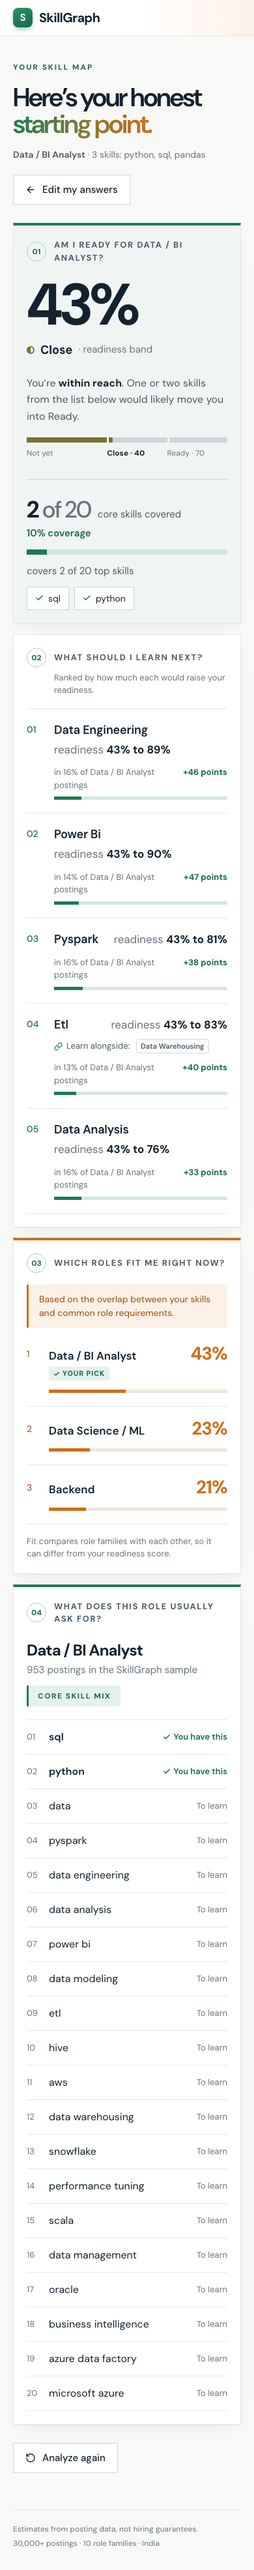
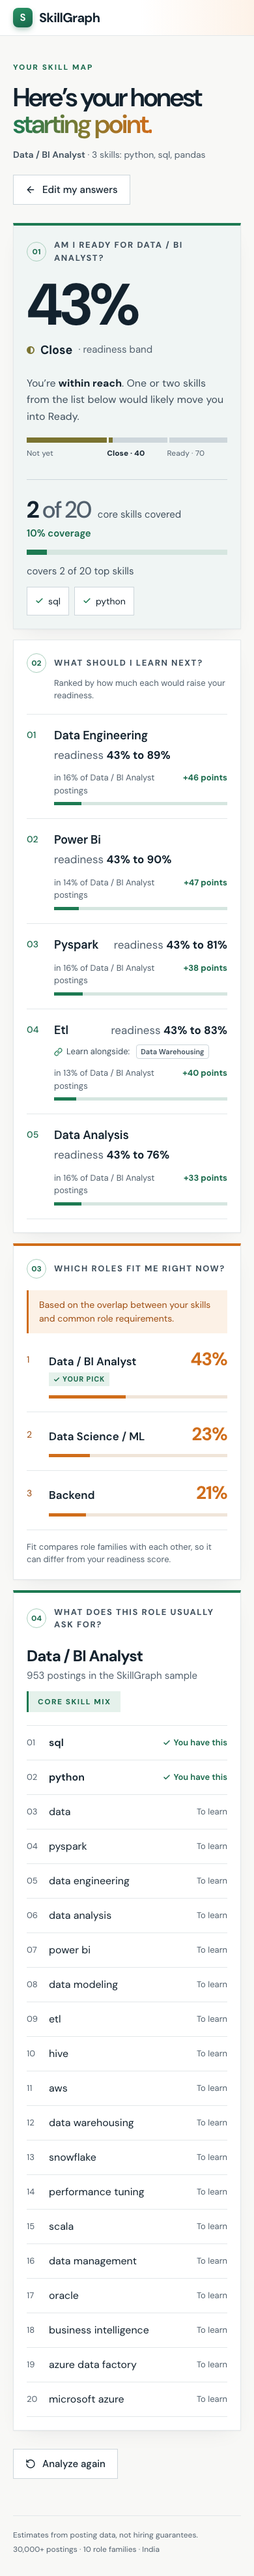
fix(frontend): edge cases, mobile layout and a11y

diff --git a/frontend/src/App.jsx b/frontend/src/App.jsx
@@ -75,6 +75,7 @@ export default function App() {
 
   const abortRef = useRef(null);
   const resultsHeadingRef = useRef(null);
+  const isSubmittingRef = useRef(false);
 
   function loadRoles() {
     setRolesStatus('loading');
@@ -117,12 +118,16 @@ export default function App() {
     return () => clearInterval(id);
   }, [status, lastPayload]);
 
-  // Move focus to the results heading when an answer arrives.
+  // Move focus to the results heading after submit and when results or error change.
   useEffect(() => {
-    if (status === 'success') resultsHeadingRef.current?.focus({ preventScroll: true });
-  }, [status]);
+    if (view === 'results') {
+      resultsHeadingRef.current?.focus({ preventScroll: true });
+    }
+  }, [view, status]);
 
   async function runAnalyze(payload) {
+    if (isSubmittingRef.current) return;
+    isSubmittingRef.current = true;
     abortRef.current?.abort();
     const controller = new AbortController();
     abortRef.current = controller;
@@ -141,6 +146,8 @@ export default function App() {
       if (controller.signal.aborted || isCancelled(err)) return;
       setError(toFriendlyError(err));
       setStatus('error');
+    } finally {
+      isSubmittingRef.current = false;
     }
   }
 
@@ -150,7 +157,7 @@ export default function App() {
 
   function handleSubmit(e) {
     e.preventDefault();
-    if (!canSubmit) return;
+    if (!canSubmit || isSubmittingRef.current || status === 'loading') return;
     runAnalyze({ skills: skillNames, desired_role: desiredRole });
   }
 
@@ -253,7 +260,7 @@ export default function App() {
                 </p>
                 <button
                   type="submit"
-                  disabled={!canSubmit}
+                  disabled={!canSubmit || status === 'loading'}
                   aria-describedby="submit-reason"
                   className="flex min-h-[54px] max-w-[360px] flex-[1_1_260px] items-center justify-between gap-3 bg-accent px-[22px] text-base font-semibold text-white hover:bg-accent-hover disabled:opacity-[.42] disabled:hover:bg-accent"
                 >
@@ -266,7 +273,7 @@ export default function App() {
         )}
 
         {view === 'results' && (
-          <>
+          <div id="results-region" aria-live="polite">
             <section className="flex flex-wrap items-end justify-between gap-x-6 gap-y-5 pb-7 pt-[clamp(40px,9vw,88px)]">
               <div className="min-w-0 flex-[1_1_420px]">
                 <p className={eyebrow}>{status === 'loading' ? 'Building your skill map' : 'Your skill map'}</p>
@@ -275,7 +282,7 @@ export default function App() {
                   tabIndex={-1}
                   className="text-[clamp(40px,9vw,64px)] font-semibold leading-[1.03] tracking-[-0.05em] outline-none"
                 >
-                  {status === 'loading' ? 'Reading the postings' : status === 'error' ? 'Almost there —' : 'Here’s your honest'}
+                  {status === 'loading' ? 'Reading the postings' : status === 'error' ? 'Almost there,' : 'Here’s your honest'}
                   <br />
                   <span className="text-gradient">{status === 'loading' ? 'for you.' : status === 'error' ? 'one more try.' : 'starting point.'}</span>
                 </h1>
@@ -335,8 +342,13 @@ export default function App() {
               <Card tone="error" role="alert" className="mb-14 grid grid-cols-[auto_minmax(0,1fr)] gap-4">
                 <CircleAlert size={24} strokeWidth={2} className="mt-0.5 text-ink-2" aria-hidden="true" />
                 <div className="min-w-0">
-                  <h2 className="mb-2 text-[clamp(20px,4vw,24px)] font-bold tracking-[-0.025em]">{error.title}</h2>
+                  <h2 className="mb-2 text-[clamp(20px,4vw,24px)] font-bold tracking-[-0.025em]">{error.title || 'Something went wrong'}</h2>
                   <p className="mb-1.5 max-w-[58ch] text-[15px] leading-[1.55] text-ink-2 text-pretty">{error.message}</p>
+                  {error.unrecognized?.length > 0 && (
+                    <p className="mb-3 text-sm text-ink-3">
+                      Unrecognized: <strong className="font-semibold text-ink-2">{error.unrecognized.join(', ')}</strong>. Try checking the spelling or picking suggestions from our list.
+                    </p>
+                  )}
                   <p className="mb-5 text-sm text-ink-3">
                     Your {shownSkills.length} skills and {shownRole} are still here.
                   </p>
@@ -394,7 +406,7 @@ export default function App() {
                 </div>
               </>
             )}
-          </>
+          </div>
         )}
 
         <Footer />

diff --git a/frontend/src/components/SkillInput.jsx b/frontend/src/components/SkillInput.jsx
@@ -20,12 +20,14 @@ export default function SkillInput({ value, onChange, inputId = 'skill-search' }
   const [showAll, setShowAll] = useState(false);
   const [retryTick, setRetryTick] = useState(0);
   const [announce, setAnnounce] = useState('');
+  const [limitMessage, setLimitMessage] = useState('');
   const inputRef = useRef(null);
   const listRef = useRef(null);
 
   const listId = `${inputId}-listbox`;
   const hintId = `${inputId}-hint`;
   const errorId = `${inputId}-error`;
+  const limitId = `${inputId}-limit`;
 
   useEffect(() => {
     const q = query.trim();
@@ -86,10 +88,21 @@ export default function SkillInput({ value, onChange, inputId = 'skill-search' }
 
   function pick(opt) {
     if (!opt) return;
-    if (opt.added) {
+    const nameLower = opt.name.trim().toLowerCase();
+    if (opt.added || added.has(nameLower)) {
       setAnnounce(`${opt.name} is already added`);
+      setQuery('');
+      setOpen(false);
       return;
     }
+    if (value.length >= CHIP_LIMIT) {
+      setLimitMessage('You can add up to 30 skills. Remove one before adding more.');
+      setAnnounce('Maximum of 30 skills reached. Remove one before adding more.');
+      setQuery('');
+      setOpen(false);
+      return;
+    }
+    setLimitMessage('');
     onChange([...value, { name: opt.name, known: opt.type === 'skill' }]);
     setAnnounce(`${opt.name} added. ${value.length + 1} skills.`);
     setQuery('');
@@ -101,6 +114,7 @@ export default function SkillInput({ value, onChange, inputId = 'skill-search' }
   function removeAt(index) {
     const removed = value[index];
     onChange(value.filter((_, i) => i !== index));
+    setLimitMessage('');
     setAnnounce(`${removed.name} removed`);
     inputRef.current?.focus();
   }
@@ -120,7 +134,24 @@ export default function SkillInput({ value, onChange, inputId = 'skill-search' }
       case 'Enter':
         if (q) {
           e.preventDefault();
-          if (options.length) pick(options[activeIndex]);
+          if (added.has(ql)) {
+            setAnnounce(`${q} is already added`);
+            setQuery('');
+            setOpen(false);
+            return;
+          }
+          if (value.length >= CHIP_LIMIT) {
+            setLimitMessage('You can add up to 30 skills. Remove one before adding more.');
+            setAnnounce('Maximum of 30 skills reached. Remove one before adding more.');
+            setQuery('');
+            setOpen(false);
+            return;
+          }
+          if (options.length) {
+            pick(options[activeIndex]);
+          } else {
+            pick({ type: 'free', name: q });
+          }
         }
         break;
       case 'Escape':
@@ -157,7 +188,11 @@ export default function SkillInput({ value, onChange, inputId = 'skill-search' }
         <label htmlFor={inputId} className="flex-1 text-[13px] font-bold uppercase tracking-[0.12em] text-ink-2">
           Skills you already have
         </label>
-        {value.length > 0 && <span className="text-[13px] tabular-nums text-ink-3">{value.length} added</span>}
+        {value.length > 0 && (
+          <span className="text-[13px] tabular-nums text-ink-3">
+            {value.length} added{value.length >= CHIP_LIMIT ? ' (maximum)' : ''}
+          </span>
+        )}
       </div>
 
       <div className="relative">
@@ -174,7 +209,9 @@ export default function SkillInput({ value, onChange, inputId = 'skill-search' }
           aria-expanded={listOpen}
           aria-controls={listId}
           aria-activedescendant={listOpen && options.length ? `${listId}-opt-${activeIndex}` : undefined}
-          aria-describedby={searchStatus === 'error' ? `${hintId} ${errorId}` : hintId}
+          aria-describedby={[hintId, limitMessage ? limitId : null, searchStatus === 'error' ? errorId : null]
+            .filter(Boolean)
+            .join(' ')}
           placeholder="Search skills, like React or Python"
           value={query}
           onChange={(e) => {
@@ -229,6 +266,12 @@ export default function SkillInput({ value, onChange, inputId = 'skill-search' }
           </ul>
         )}
       </div>
+
+      {limitMessage && (
+        <p id={limitId} role="alert" className="mt-2.5 text-sm font-semibold text-fit-ink">
+          {limitMessage}
+        </p>
+      )}
 
       <p id={hintId} className="mb-5 mt-2.5 text-[13px] leading-normal text-ink-3">
         Aliases work — “reactjs”, “k8s”, “sklearn”. ↑ ↓ to move, Enter to add, Esc to clear, Backspace removes the last skill.

diff --git a/frontend/src/components/ui/Chip.jsx b/frontend/src/components/ui/Chip.jsx
@@ -3,16 +3,23 @@ import { Check, X } from 'lucide-react';
 /** Removable skill chip used in the input. */
 export default function Chip({ name, unrecognized = false, onRemove }) {
   return (
-    <li className={`flex min-h-11 max-w-full items-stretch border bg-surface ${unrecognized ? 'border-dashed' : 'border-solid'} border-line-2`}>
-      <span className="flex min-w-0 flex-col justify-center py-1.5 pl-3 pr-0.5">
-        <span className="text-sm font-semibold leading-tight [overflow-wrap:anywhere]">{name}</span>
+    <li
+      className={`flex min-h-11 max-w-full items-stretch border bg-surface ${
+        unrecognized ? 'border-dashed' : 'border-solid'
+      } border-line-2`}
+    >
+      <span
+        title={name}
+        className="flex min-w-0 max-w-[200px] sm:max-w-[260px] flex-col justify-center py-1.5 pl-3 pr-0.5"
+      >
+        <span className="truncate text-sm font-semibold leading-tight">{name}</span>
         {unrecognized && <span className="text-[11px] text-ink-3">Not in our list</span>}
       </span>
       <button
         type="button"
         onClick={onRemove}
         aria-label={`Remove ${name}`}
-        className="grid w-10 flex-none place-items-center text-ink-2 hover:bg-tint hover:text-ink"
+        className="grid size-11 flex-none place-items-center text-ink-2 hover:bg-tint hover:text-ink focus-visible:outline-2"
       >
         <X size={15} strokeWidth={2.2} aria-hidden="true" />
       </button>
@@ -23,9 +30,9 @@ export default function Chip({ name, unrecognized = false, onRemove }) {
 /** Static chip for skills the student already covers (result view). */
 export function CoveredChip({ name }) {
   return (
-    <li className="flex items-center gap-[7px] border border-line-2 bg-surface px-3 py-[7px] text-sm">
+    <li className="flex min-h-11 items-center gap-[7px] border border-line-2 bg-surface px-3 py-[7px] text-sm">
       <Check size={13} strokeWidth={3} className="flex-none text-accent" aria-hidden="true" />
-      <span className="[overflow-wrap:anywhere]">{name}</span>
+      <span title={name} className="max-w-[240px] truncate">{name}</span>
     </li>
   );
 }

diff --git a/frontend/src/api/client.js b/frontend/src/api/client.js
@@ -14,11 +14,15 @@ export function isCancelled(err) {
 }
 
 function normalizeError(err) {
+  if (err && typeof err === 'object' && 'unrecognized' in err && 'title' in err) {
+    return err;
+  }
   const status = err?.response?.status || null;
   const detail = err?.response?.data?.detail;
-  let message = err.message;
+  let title = 'Something went wrong';
+  let message = err?.message || 'An unexpected error occurred';
   let unrecognized = [];
-  
+
   if (detail) {
     if (typeof detail === 'string') {
       message = detail;
@@ -26,13 +30,24 @@ function normalizeError(err) {
       message = detail.message || message;
       unrecognized = detail.unrecognized || [];
     }
-  } else if (err.code === 'ECONNABORTED' || err.code === 'ETIMEDOUT') {
+    if (status === 400 && unrecognized.length > 0) {
+      title = "We couldn't recognize your skills";
+    } else if (status === 400) {
+      title = 'Invalid request';
+    } else if (status === 404) {
+      title = 'Not found';
+    } else if (status >= 500) {
+      title = 'Server error';
+    }
+  } else if (err?.code === 'ECONNABORTED' || err?.code === 'ETIMEDOUT' || /timeout/i.test(err?.message || '')) {
+    title = 'Request timed out';
     message = "The server didn't respond within 25 seconds. This sometimes happens right after it wakes up — trying again usually works.";
-  } else if (!err.response) {
+  } else if (!err?.response) {
+    title = 'Connection problem';
     message = "The request didn't reach the server. Check your internet connection.";
   }
-  
-  return { status, message, unrecognized };
+
+  return { status, title, message, unrecognized };
 }
 
 export function toFriendlyError(err) {

diff --git a/frontend/src/components/RoleSelect.jsx b/frontend/src/components/RoleSelect.jsx
@@ -40,10 +40,12 @@ export default function RoleSelect({ roles, status, value, onChange, selectedNam
             roles.map((role) => {
               const checked = role.role_family === value;
               const hits = role.top_skills.filter((s) => have.has(s)).length;
+              const roleInputId = `role-opt-${role.role_family.toLowerCase().replace(/[^a-z0-9]/g, '-')}`;
               return (
                 <label
                   key={role.role_family}
-                  className={`flex cursor-pointer items-center gap-4 border-b border-line py-4 pr-3 transition-colors ${
+                  htmlFor={roleInputId}
+                  className={`flex min-h-[52px] cursor-pointer items-center gap-4 border-b border-line py-4 pr-3 transition-colors ${
                     checked ? 'bg-accent-tint pl-4 shadow-[inset_3px_0_0_var(--color-accent)]' : 'pl-0 hover:bg-tint'
                   }`}
                 >
@@ -62,6 +64,7 @@ export default function RoleSelect({ roles, status, value, onChange, selectedNam
                   </span>
                   <input
                     type="radio"
+                    id={roleInputId}
                     name={name}
                     value={role.role_family}
                     checked={checked}

diff --git a/frontend/index.html b/frontend/index.html
@@ -5,7 +5,8 @@
     <meta name="viewport" content="width=device-width, initial-scale=1.0" />
     <meta name="theme-color" content="#f8f8f6" />
     <meta name="description" content="See how your skills line up with the roles Indian tech companies are hiring for, based on 30,000+ real postings." />
-    <title>SkillGraph — know what to learn before you apply</title>
+    <title>SkillGraph</title>
+    <link rel="icon" type="image/svg+xml" href="/favicon.svg" />
     <link rel="preconnect" href="https://fonts.googleapis.com" />
     <link rel="preconnect" href="https://fonts.gstatic.com" crossorigin />
     <link

diff --git a/frontend/src/index.css b/frontend/src/index.css
@@ -11,8 +11,8 @@
   --color-line: #e3e8ea;
   --color-line-2: #cdd6db;
   --color-ink: #13222e;
-  --color-ink-2: #4a5966;
-  --color-ink-3: #66737e;
+  --color-ink-2: #3e4e5b;
+  --color-ink-3: #52606d;
 
   /* Accent: green (readiness, skills, primary action) */
   --color-accent: #1d7a52;
